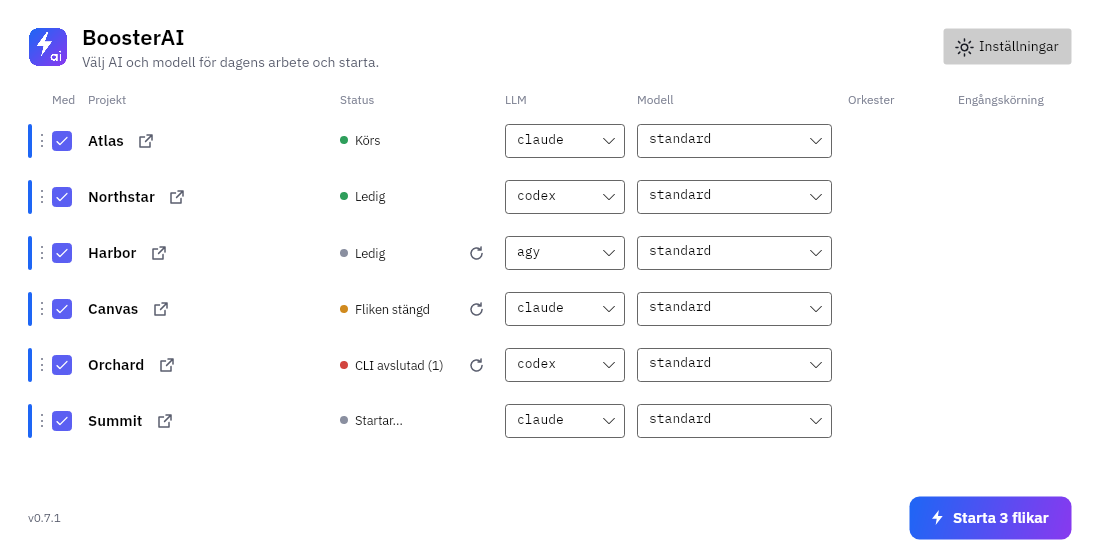
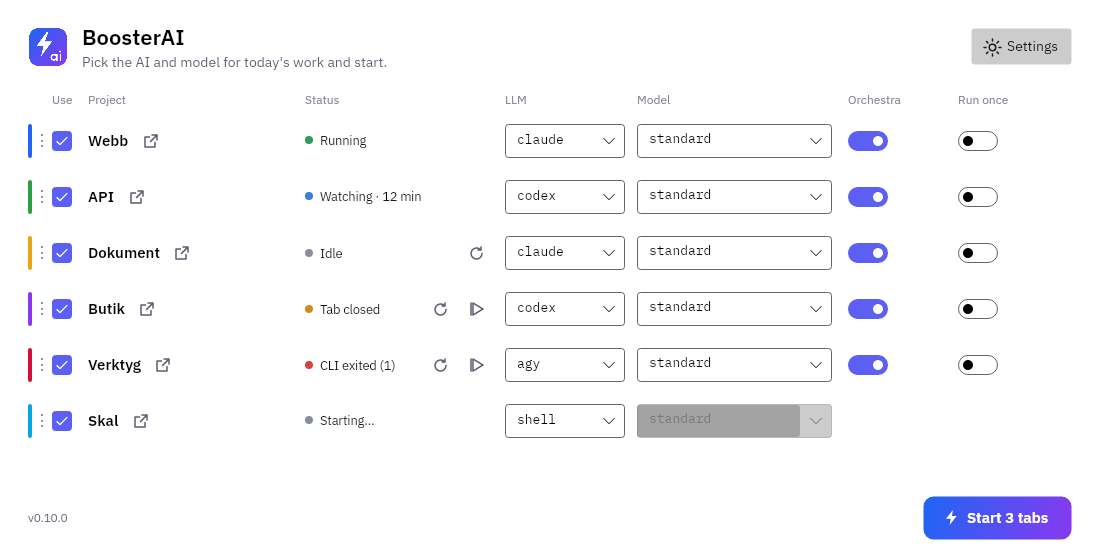
Offer explicit conversation continuation for ended tabs (#54)

diff --git a/src/BoosterAI/Launcher.cs b/src/BoosterAI/Launcher.cs
@@ -16,7 +16,7 @@ public static class Launcher
     /// child instead of exec so that the exit trap still fires when the tab is closed. Every logging
     /// step is "|| true", so a missing lib never stops the CLI.
     /// </summary>
-    public static string TabScript(TabConfig tab, string? prompt = null, TabTrack? track = null)
+    public static string TabScript(TabConfig tab, string? prompt = null, TabTrack? track = null, bool resume = false)
     {
         var cd = Cd(tab);
         var lib = track is null ? "" : $". {Quote(track.Lib)} {Quote(track.Dir)} {Quote(track.Id)} 2>/dev/null || true && ";
@@ -24,7 +24,7 @@ public static class Launcher
         if (tab.Llm == Catalog.ShellOnly)
             return track is null ? $"{cd} || true && {shell}"
                 : $"{lib}{cd} || true && {Hook("bs_cli")} && bs_run {Quote("bash")}";
-        var cli = CliCommand(tab, prompt, track, resume: false);
+        var cli = CliCommand(tab, prompt, track, resume && CanContinue(tab));
         if (track is null) return $"{cd} && {cli} || true && exec bash";
         // bs_next runs what an in-place restart queued (see RestartScript) before the shell is left.
         return $"{lib}{cd} && {Hook("bs_cli")} && {TrackedCommand(cli)} && {Hook("bs_done 0")} || {Hook("bs_done $?")} && {Next} && bash";
@@ -48,6 +48,10 @@ public static class Launcher
     /// <summary>A model change on claude or codex restarts with the same conversation; anything else starts fresh.</summary>
     public static bool CanResume(TabConfig from, TabConfig to) =>
         from.Llm == to.Llm && to.Llm is "claude" or "codex" && !(to.NonInteractive && to.Orkester);
+
+    /// <summary>Explicit continuation is interactive; Run once always starts a new orchestra pass.</summary>
+    public static bool CanContinue(TabConfig tab) =>
+        tab.Llm is "claude" or "codex" or "agy" && !(tab.NonInteractive && tab.Orkester);
 
     /// <summary>The settings file whose hooks log busy/idle for an interactive claude tab (written by TabSession.NewTrack).</summary>
     public static string HooksFile(TabTrack track) => $"{track.Dir}/{track.Id}.claude.json";
@@ -77,7 +81,7 @@ public static class Launcher
     private static string CliCommand(TabConfig tab, string? prompt, TabTrack? track, bool resume)
     {
         var args = new List<string>();
-        if (resume && tab.Llm == "claude") args.Add("--continue");
+        if (resume && tab.Llm is "claude" or "agy") args.Add("--continue");
         if (tab.Model != Catalog.StandardModel) args.Add("--model " + Quote(tab.Model));
         // One-shot mode applies to the orchestra command only; a given prompt (the install) stays interactive.
         var once = tab.NonInteractive && tab.Orkester && prompt is null && !resume;
@@ -148,7 +152,7 @@ public static class Launcher
     /// <paramref name="track"/> gives each tab its status log; <paramref name="window"/> is the
     /// Windows Terminal window to open in ("new", or a session's name so restarts join it).
     /// </summary>
-    public static string Launch(AppConfig cfg, string? prompt = null, Func<TabConfig, TabTrack?>? track = null, string window = "new")
+    public static string Launch(AppConfig cfg, string? prompt = null, Func<TabConfig, TabTrack?>? track = null, string window = "new", bool resume = false)
     {
         var tabs = cfg.Tabs.Where(t => t.Enabled).ToList();
         if (tabs.Count == 0) return Loc.Get("err.noTab");
@@ -157,8 +161,8 @@ public static class Launcher
         try
         {
             var tracks = tabs.Select(t => track?.Invoke(t)).ToList();
-            if (OperatingSystem.IsWindows()) LaunchWindowsTerminal(tabs, cfg.WslDistro, prompt, tracks, window, cfg.ZoomPercent);
-            else LaunchLinux(tabs, cfg.LinuxTerminal, prompt, tracks, cfg.ZoomPercent);
+            if (OperatingSystem.IsWindows()) LaunchWindowsTerminal(tabs, cfg.WslDistro, prompt, tracks, window, cfg.ZoomPercent, resume);
+            else LaunchLinux(tabs, cfg.LinuxTerminal, prompt, tracks, cfg.ZoomPercent, resume);
             return "";
         }
         catch (Exception e)
@@ -169,7 +173,7 @@ public static class Launcher
 
     /// <summary>The wt.exe arguments, exposed for --dry-run.</summary>
     public static List<string> WindowsTerminalArgs(IReadOnlyList<TabConfig> tabs, string distro, string? prompt = null,
-        IReadOnlyList<TabTrack?>? tracks = null, string window = "new", int zoomPercent = 0)
+        IReadOnlyList<TabTrack?>? tracks = null, string window = "new", int zoomPercent = 0, bool resume = false)
     {
         // wt has no font-size flag: a zoomed run selects the profile from ZoomFragmentJson.
         string[] profile = zoomPercent > 0 ? ["-p", ZoomProfileName] : [];
@@ -179,7 +183,7 @@ public static class Launcher
             var t = tabs[i];
             if (a.Count > 2) a.Add(";");
             a.AddRange(["new-tab", .. profile, "--title", t.Name, "--tabColor", t.Color, "--suppressApplicationTitle",
-                "wsl.exe", "-d", distro, "--exec", "bash", "-lic", TabScript(InWsl(t), prompt, tracks?[i])]);
+                "wsl.exe", "-d", distro, "--exec", "bash", "-lic", TabScript(InWsl(t), prompt, tracks?[i], resume)]);
         }
         a.AddRange([";", "focus-tab", "-t", "0"]);
         return a;
@@ -279,11 +283,11 @@ public static class Launcher
     };
 
     private static void LaunchWindowsTerminal(IReadOnlyList<TabConfig> tabs, string distro, string? prompt,
-        IReadOnlyList<TabTrack?> tracks, string window, int zoomPercent)
+        IReadOnlyList<TabTrack?> tracks, string window, int zoomPercent, bool resume)
     {
         if (SyncZoomFragment(zoomPercent)) ReloadRunningWindowsTerminal();
         var psi = new ProcessStartInfo("wt.exe") { UseShellExecute = false };
-        foreach (var arg in WindowsTerminalArgs(tabs, distro, prompt, tracks, window, zoomPercent)) psi.ArgumentList.Add(arg);
+        foreach (var arg in WindowsTerminalArgs(tabs, distro, prompt, tracks, window, zoomPercent, resume)) psi.ArgumentList.Add(arg);
         Process.Start(psi);
     }
 
@@ -308,11 +312,11 @@ public static class Launcher
     /// <paramref name="ptyxisRestores"/> true means these calls start Ptyxis and it restores its saved session, see the ptyxis case.
     /// </summary>
     public static List<TermCall> LinuxCommands(IReadOnlyList<TabConfig> tabs, string term, string? prompt,
-        IReadOnlyList<TabTrack?> tracks, int zoomPercent, bool ptyxisRestores = false)
+        IReadOnlyList<TabTrack?> tracks, int zoomPercent, bool ptyxisRestores = false, bool resume = false)
     {
         var zoom = LinuxZoomArgs(term, zoomPercent);
         // --command / -e take ONE string that the terminal splits like a shell.
-        string Cmd(int i) => "bash -lic " + Quote(TabScript(tabs[i], prompt, tracks[i]));
+        string Cmd(int i) => "bash -lic " + Quote(TabScript(tabs[i], prompt, tracks[i], resume));
         var calls = new List<TermCall>();
         switch (term)
         {
@@ -343,7 +347,7 @@ public static class Launcher
             default:
                 for (var i = 0; i < tabs.Count; i++)
                 {
-                    string[] shell = ["bash", "-lic", TabScript(tabs[i], prompt, tracks[i])];
+                    string[] shell = ["bash", "-lic", TabScript(tabs[i], prompt, tracks[i], resume)];
                     string[] args = term switch
                     {
                         "konsole" => ["--new-tab", "-p", $"tabtitle={tabs[i].Name}", "-e", .. shell],
@@ -359,7 +363,7 @@ public static class Launcher
     }
 
     private static void LaunchLinux(IReadOnlyList<TabConfig> tabs, string preferred, string? prompt,
-        IReadOnlyList<TabTrack?> tracks, int zoomPercent)
+        IReadOnlyList<TabTrack?> tracks, int zoomPercent, bool resume)
     {
         var term = preferred != "auto" ? preferred
             : LinuxTerminals.Skip(1).FirstOrDefault(OnPath)
@@ -367,7 +371,7 @@ public static class Launcher
         // Without gdbus the state is unknown: assume a running instance, the --new-window behaviour.
         var coldPtyxis = term == "ptyxis" && BusNameOwned(PtyxisBusName) == false;
         using var restore = coldPtyxis ? SuppressPtyxisRestore() : null;
-        foreach (var call in LinuxCommands(tabs, term, prompt, tracks, zoomPercent, coldPtyxis && restore is null))
+        foreach (var call in LinuxCommands(tabs, term, prompt, tracks, zoomPercent, coldPtyxis && restore is null, resume))
         {
             var psi = new ProcessStartInfo(call.Exe) { UseShellExecute = false };
             foreach (var a in call.Args) psi.ArgumentList.Add(a);

diff --git a/src/BoosterAI/ViewModels.cs b/src/BoosterAI/ViewModels.cs
@@ -197,12 +197,17 @@ public sealed class TabViewModel : Observable
     public string RestartTip =>
         PendingRestart ? Loc.Get("restart.pending.tip")
         : IsChanged ? Loc.Format(RestartResumes ? "restart.changed.resume.tip" : "restart.changed.tip", Llm, ModelLabel)
-        : Loc.Get(LaunchedAs is { NonInteractive: true, Orkester: true } ? "restart.once.tip" : "restart.tip");
+        : Loc.Get(LaunchedAs is { NonInteractive: true, Orkester: true } ? "restart.once.tip"
+            : LaunchedAs is { Llm: Catalog.ShellOnly } ? "restart.shell.tip" : "restart.tip");
 
     private string ModelLabel => string.IsNullOrWhiteSpace(Model) || Model == Catalog.StandardModel ? Loc.Get("restart.standardModel") : Model;
 
     public bool CanRestart => IsChanged || _state is TabState.Closed or TabState.CliExited or TabState.CliMissing
         or TabState.NotStarted or TabState.Lost or TabState.Denied;
+
+    /// <summary>A separate action: reopen an ended interactive session with the latest conversation in its directory.</summary>
+    public bool CanContinueClosed => CanRestart && !IsAlive && LaunchedAs is { } launched && Launcher.CanContinue(launched);
+    public string ContinueTip => Loc.Get("restart.continue.tip");
 
     private void ChoiceChanged()
     {
@@ -213,7 +218,7 @@ public sealed class TabViewModel : Observable
 
     private void RaiseRestart()
     {
-        foreach (var n in new[] { nameof(IsChanged), nameof(CanRestart), nameof(RestartTip), nameof(PendingRestart) }) Raise(n);
+        foreach (var n in new[] { nameof(IsChanged), nameof(CanRestart), nameof(RestartTip), nameof(PendingRestart), nameof(CanContinueClosed) }) Raise(n);
     }
     /// <summary>The programs of the commands agy denied (state Denied).</summary>
     internal IReadOnlyList<string> DeniedPrograms => _denied;
@@ -572,6 +577,7 @@ public sealed class MainViewModel : Observable
                 launched.Orkester = true;
                 tab.LaunchedAs = launched;
             }
+            tab.LaunchedAs ??= tab.ToConfig(forLaunch: true);
             tab.SetState(sample.State, sample.Rc, activity: sample.Activity,
                 watchingSince: sample.Activity == Activity.Watching ? DateTimeOffset.UtcNow.AddMinutes(-12).ToUnixTimeMilliseconds() : null);
         }
@@ -665,12 +671,15 @@ public sealed class MainViewModel : Observable
     }
 
     /// <summary>Opens the tab again with the choices it was started with, in the session's window.</summary>
-    public void Restart(TabViewModel tab)
+    public void Restart(TabViewModel tab, bool resume = false)
     {
-        if (tab.LaunchedAs is not { } launched) return;
+        if (tab.LaunchedAs is not { } launched || (resume && !tab.CanContinueClosed)) return;
         var cfg = new AppConfig { WslDistro = _cfg.WslDistro, LinuxTerminal = _cfg.LinuxTerminal, ZoomPercent = _cfg.ZoomPercent, Tabs = [launched] };
-        var error = Start(cfg, [(tab, launched)], _session?.WindowName);
-        ShowStatus(error, error: error != "");
+        var error = Start(cfg, [(tab, launched)], _session?.WindowName, resume);
+        ShowStatus(error != "" ? error : resume
+            ? Loc.Format("status.restartedResume", tab.Name.Trim(), launched.Llm,
+                launched.Model == Catalog.StandardModel ? Loc.Get("restart.standardModel") : launched.Model)
+            : "", error: error != "");
     }
 
     private TabSession? _session;
@@ -678,12 +687,12 @@ public sealed class MainViewModel : Observable
     private bool _polling;
 
     /// <summary>Launches with a status log per tab (one session per window) and starts watching.</summary>
-    private string Start(AppConfig cfg, IReadOnlyList<(TabViewModel Row, TabConfig Tab)> rows, string? window)
+    private string Start(AppConfig cfg, IReadOnlyList<(TabViewModel Row, TabConfig Tab)> rows, string? window, bool resume = false)
     {
         try { _session ??= new TabSession(TabSession.DefaultRoot, DateTime.Now, TabSession.Liveness(_cfg.WslDistro)); }
         catch (Exception e) when (e is IOException or UnauthorizedAccessException) { _session = null; }
         var tracks = rows.ToDictionary(r => r.Tab, r => _session?.NewTrack());
-        var error = Launcher.Launch(cfg, track: t => tracks.GetValueOrDefault(t), window: window ?? _session?.WindowName ?? "new");
+        var error = Launcher.Launch(cfg, track: t => tracks.GetValueOrDefault(t), window: window ?? _session?.WindowName ?? "new", resume: resume);
         if (error != "")
         {
             if (_cfg.Notifications) Notifier.Show("BoosterAI", error);

diff --git a/tests/BoosterAI.Tests/LauncherTests.cs b/tests/BoosterAI.Tests/LauncherTests.cs
@@ -125,6 +125,64 @@ public class LauncherTests
         Assert.DoesNotContain("stream-json", Launcher.TabScript(Once("agy")));
     }
 
+    [Theory]
+    [InlineData("claude", "claude --continue --model")]
+    [InlineData("codex", "codex resume --last --model")]
+    [InlineData("agy", "agy --continue --model")]
+    public void ReopeningCanExplicitlyContinueWithoutAnInitialPrompt(string llm, string command)
+    {
+        var tab = new TabConfig { Directory = "~/project's folder", Llm = llm, Model = "x", Orkester = true };
+        var resumed = Launcher.TabScript(tab, prompt: "do not send me", resume: true);
+        Assert.Contains(command, resumed);
+        Assert.DoesNotContain("do not send me", resumed);
+        Assert.DoesNotContain("orkester", resumed);
+        Assert.DoesNotContain(';', resumed);
+        var fresh = Launcher.TabScript(tab);
+        Assert.DoesNotContain("--continue", fresh);
+        Assert.DoesNotContain("resume --last", fresh);
+        Assert.Contains("orkester", fresh);
+        // Both native terminal paths must forward the choice through their quoting layers.
+        Assert.Contains(command, Launcher.WindowsTerminalArgs([tab], "Ubuntu", resume: true).Last(a => a.Contains("bash") && a.Contains("cd ")));
+        foreach (var term in Launcher.LinuxTerminals.Skip(1))
+            Assert.Contains(command, string.Join(" ", Launcher.LinuxCommands([tab], term, null, [null], 0, resume: true).Single().Args));
+    }
+
+    [Theory]
+    [InlineData("claude", "--continue")]
+    [InlineData("codex", "resume\n--last")]
+    [InlineData("agy", "--continue")]
+    public void ContinuationArgumentsSurviveBashQuoting(string llm, string expected)
+    {
+        if (OperatingSystem.IsWindows()) return; // The actual scripts run in Linux/WSL.
+        var psi = new ProcessStartInfo("bash")
+        {
+            RedirectStandardInput = true, RedirectStandardOutput = true, RedirectStandardError = true,
+            UseShellExecute = false
+        };
+        psi.ArgumentList.Add("-c");
+        var tab = new TabConfig { Directory = Path.GetTempPath(), Llm = llm, Model = "model's name", Orkester = true };
+        psi.ArgumentList.Add(llm + "() { printf '%s\\n' \"$@\"; }\n" + Launcher.TabScript(tab, resume: true));
+        using var process = Process.Start(psi)!;
+        process.StandardInput.Close();
+        var output = process.StandardOutput.ReadToEnd();
+        Assert.True(process.WaitForExit(5000));
+        Assert.Equal(0, process.ExitCode);
+        Assert.Equal(expected + "\n--model\nmodel's name\n", output);
+    }
+
+    [Theory]
+    [InlineData("claude")]
+    [InlineData("codex")]
+    [InlineData("agy")]
+    public void OneShotRestartAlwaysStartsANewPass(string llm)
+    {
+        Assert.False(Launcher.CanContinue(Once(llm)));
+        Assert.Equal(Launcher.TabScript(Once(llm)), Launcher.TabScript(Once(llm), resume: true));
+        var shell = new TabConfig { Llm = Catalog.ShellOnly };
+        Assert.False(Launcher.CanContinue(shell));
+        Assert.Equal(Launcher.TabScript(shell), Launcher.TabScript(shell, resume: true));
+    }
+
     [Fact]
     public void RejectsUnsafeModelAndDirectory()
     {

diff --git a/tests/BoosterAI.Tests/TabMonitorTests.cs b/tests/BoosterAI.Tests/TabMonitorTests.cs
@@ -506,6 +506,34 @@ public class InPlaceRestartTests
         Assert.True(tab.CanRestart);
     }
 
+    [Theory]
+    [InlineData("claude", true)]
+    [InlineData("codex", true)]
+    [InlineData("agy", true)]
+    [InlineData(Catalog.ShellOnly, false)]
+    public void ExplicitContinueIsOfferedOnlyAfterAnInteractiveTabEnds(string llm, bool supported)
+    {
+        var vm = new MainViewModel(new AppConfig { Tabs = [new TabConfig { Llm = llm }] });
+        var tab = vm.Tabs[0];
+        tab.LaunchedAs = tab.ToConfig(forLaunch: true);
+        Assert.False(tab.CanContinueClosed);
+        var raised = new List<string?>();
+        tab.PropertyChanged += (_, e) => raised.Add(e.PropertyName);
+        tab.SetState(TabState.Running, null, activity: Activity.Idle);
+        Assert.False(tab.CanContinueClosed);
+        tab.SetState(TabState.CliExited, 0);
+        Assert.Equal(supported, tab.CanContinueClosed);
+        Assert.Contains(nameof(TabViewModel.CanContinueClosed), raised);
+        tab.SetState(TabState.Closed, null);
+        Assert.Equal(supported, tab.CanContinueClosed);
+        tab.SetState(TabState.Starting, null);
+        Assert.False(tab.CanContinueClosed);
+        tab.LaunchedAs.NonInteractive = true;
+        tab.LaunchedAs.Orkester = true;
+        tab.SetState(TabState.CliExited, 0);
+        Assert.False(tab.CanContinueClosed);
+    }
+
     [Fact]
     public void ActivityFollowsTheHooksAndANewCliStartsOver()
     {

diff --git a/src/BoosterAI/MainWindow.axaml.cs b/src/BoosterAI/MainWindow.axaml.cs
@@ -143,6 +143,11 @@ public partial class MainWindow : Window
 
     private void OnDismissDenied(object? sender, RoutedEventArgs e) => _vm.DismissDenied();
 
+    private void OnContinue(object? sender, RoutedEventArgs e)
+    {
+        if ((sender as Control)?.DataContext is TabViewModel tab) _vm.Restart(tab, resume: true);
+    }
+
     private async void OnRestart(object? sender, RoutedEventArgs e)
     {
         if ((sender as Control)?.DataContext is not TabViewModel tab) return;

diff --git a/docs/DETAILS.md b/docs/DETAILS.md
@@ -76,6 +76,8 @@ Only a copy in the location the installers use updates itself: `%LOCALAPPDATA%\P
 
 After **Start**, BoosterAI stays running and shows a status per tab: *Starting…*, *Running*, *Watching* (Run once only: a turn ended and the CLI waits), *CLI exited (code)*, *CLI not found*, *Did not start*, *Tab closed* or *Lost*. The window minimizes to the taskbar, so the status is one click away. Closing the window quits BoosterAI. On Windows there is also a tray icon (Windows may tuck it behind the ^ arrow) whose menu shows the window or quits. Linux gets no tray icon, because many desktops (plain GNOME, for example) have no tray. A tab that has closed or whose CLI has exited gets a restart button. The button opens the tab again with the same AI, model and orchestra choice, in the same Windows Terminal window.
 
+**Continue an ended conversation.** Beside the regular restart button, a separate continue icon reopens an ended or closed interactive AI tab with its original choices and the latest conversation in its directory: `claude --continue`, `codex resume --last` or `agy --continue` (supported by the installed agy CLI's `--help`). It sends no initial prompt, including `/orkester`. The tooltip and status say that the conversation is continued. This is explicit each time; regular restart and **Start** still start fresh. Plain shells and **Run once** tabs have no continue button: Run once's restart deliberately starts another orchestra pass. The CLI chooses the latest conversation, not a per-tab conversation ID; tabs sharing a directory can therefore continue each other's conversation. Use separate directories when their histories must stay separate. If there is no saved conversation, the CLI reports that in the terminal.
+
 **Changing the AI or model of a running tab** shows the restart button too, with the status *Running – new choice* and the tip *Restart the tab with &lt;llm&gt; / &lt;model&gt;*. The restart happens in the same tab: BoosterAI queues the new command in the session directory (`tabN.next`), then stops the tab's foreground process group, which is the CLI and never the shell. The tab's chain then runs `bs_next` from `tab-lib.sh`, which starts the queued CLI and logs it like the first one. A model change on `claude` or `codex` keeps the conversation (`claude --continue --model X`, `codex resume --last --model X`). A new LLM, agy or a Run once tab starts fresh. Changing back to the running choice removes the button.
 
 The status shows *Running* while terminal output is arriving and *Idle* after 60 seconds without output. Successful CLI exits also show *Idle* while the shell remains open; failures and closed tabs keep their separate states. Tabs started before output timing was available show *Activity unknown* until they are restarted. Interactive `claude` tabs additionally use `--settings tabN.claude.json` hooks to report when a prompt starts and a turn ends. The `Notification` hook is not used, because it also fires for a permission prompt in the middle of a turn. If the CLI is working, the restart asks first: **Restart now** interrupts the turn, and **Restart when idle** makes the row wait (*Waiting for idle…*, a second click cancels) until the next *idle*. An idle `claude` restarts without asking.

diff --git a/README.md b/README.md
@@ -13,7 +13,7 @@ Start your whole working day with one click: BoosterAI opens every project you w
 - **One click, many tabs.** Each project opens in its own tab, in the right directory, with its own colour and title.
 - **Model per tab.** Include or skip a project, pick `claude`, `codex`, `agy` or a plain shell, and pick a model from the list or type any model id.
 - **Remembered between runs.** Your choices are saved, so the next start is usually one click.
-- **Status per tab.** Running while the terminal produces output, then Idle after a minute without output; a Run once tab whose turn ended while its CLI still waits shows Watching with the minutes since the turn; exited, not found or closed states stay distinct, with a restart button. Hover a running tab's status to see its last 20 lines of terminal text, updated live, without switching to the terminal. Change the AI or model of a running tab and the button restarts it in place with the new choice, keeping the conversation for a model change; it warns while the CLI is working and can wait until it is idle. After BoosterAI restarts (an update, say) it finds the tabs that still run, and *Start* opens only the ones that don't; the window minimizes to the taskbar (plus a tray icon on Windows).
+- **Status per tab.** Running while the terminal produces output, then Idle after a minute without output; a Run once tab whose turn ended while its CLI still waits shows Watching with the minutes since the turn; exited, not found or closed states stay distinct, with a restart button and a separate continue button for the latest conversation in that directory (claude, codex and agy). Hover a running tab's status to see its last 20 lines of terminal text, updated live, without switching to the terminal. Change the AI or model of a running tab and the button restarts it in place with the new choice, keeping the conversation for a model change; it warns while the CLI is working and can wait until it is idle. After BoosterAI restarts (an update, say) it finds the tabs that still run, and *Start* opens only the ones that don't; the window minimizes to the taskbar (plus a tray icon on Windows).
 - **Reorder tabs.** Drag the handle beside a project name to move its row; the order is remembered for the next launch.
 - **Notifications.** A system notification when a tab closes, fails to start or its CLI exits with an error.
 - **Orchestra on demand.** For projects that use [Dirigenten och orkestern](https://github.com/solwation/dirigenten-och-orkestern), a toggle sends `/orkester` as the first prompt, and projects without it get a one-click install.
